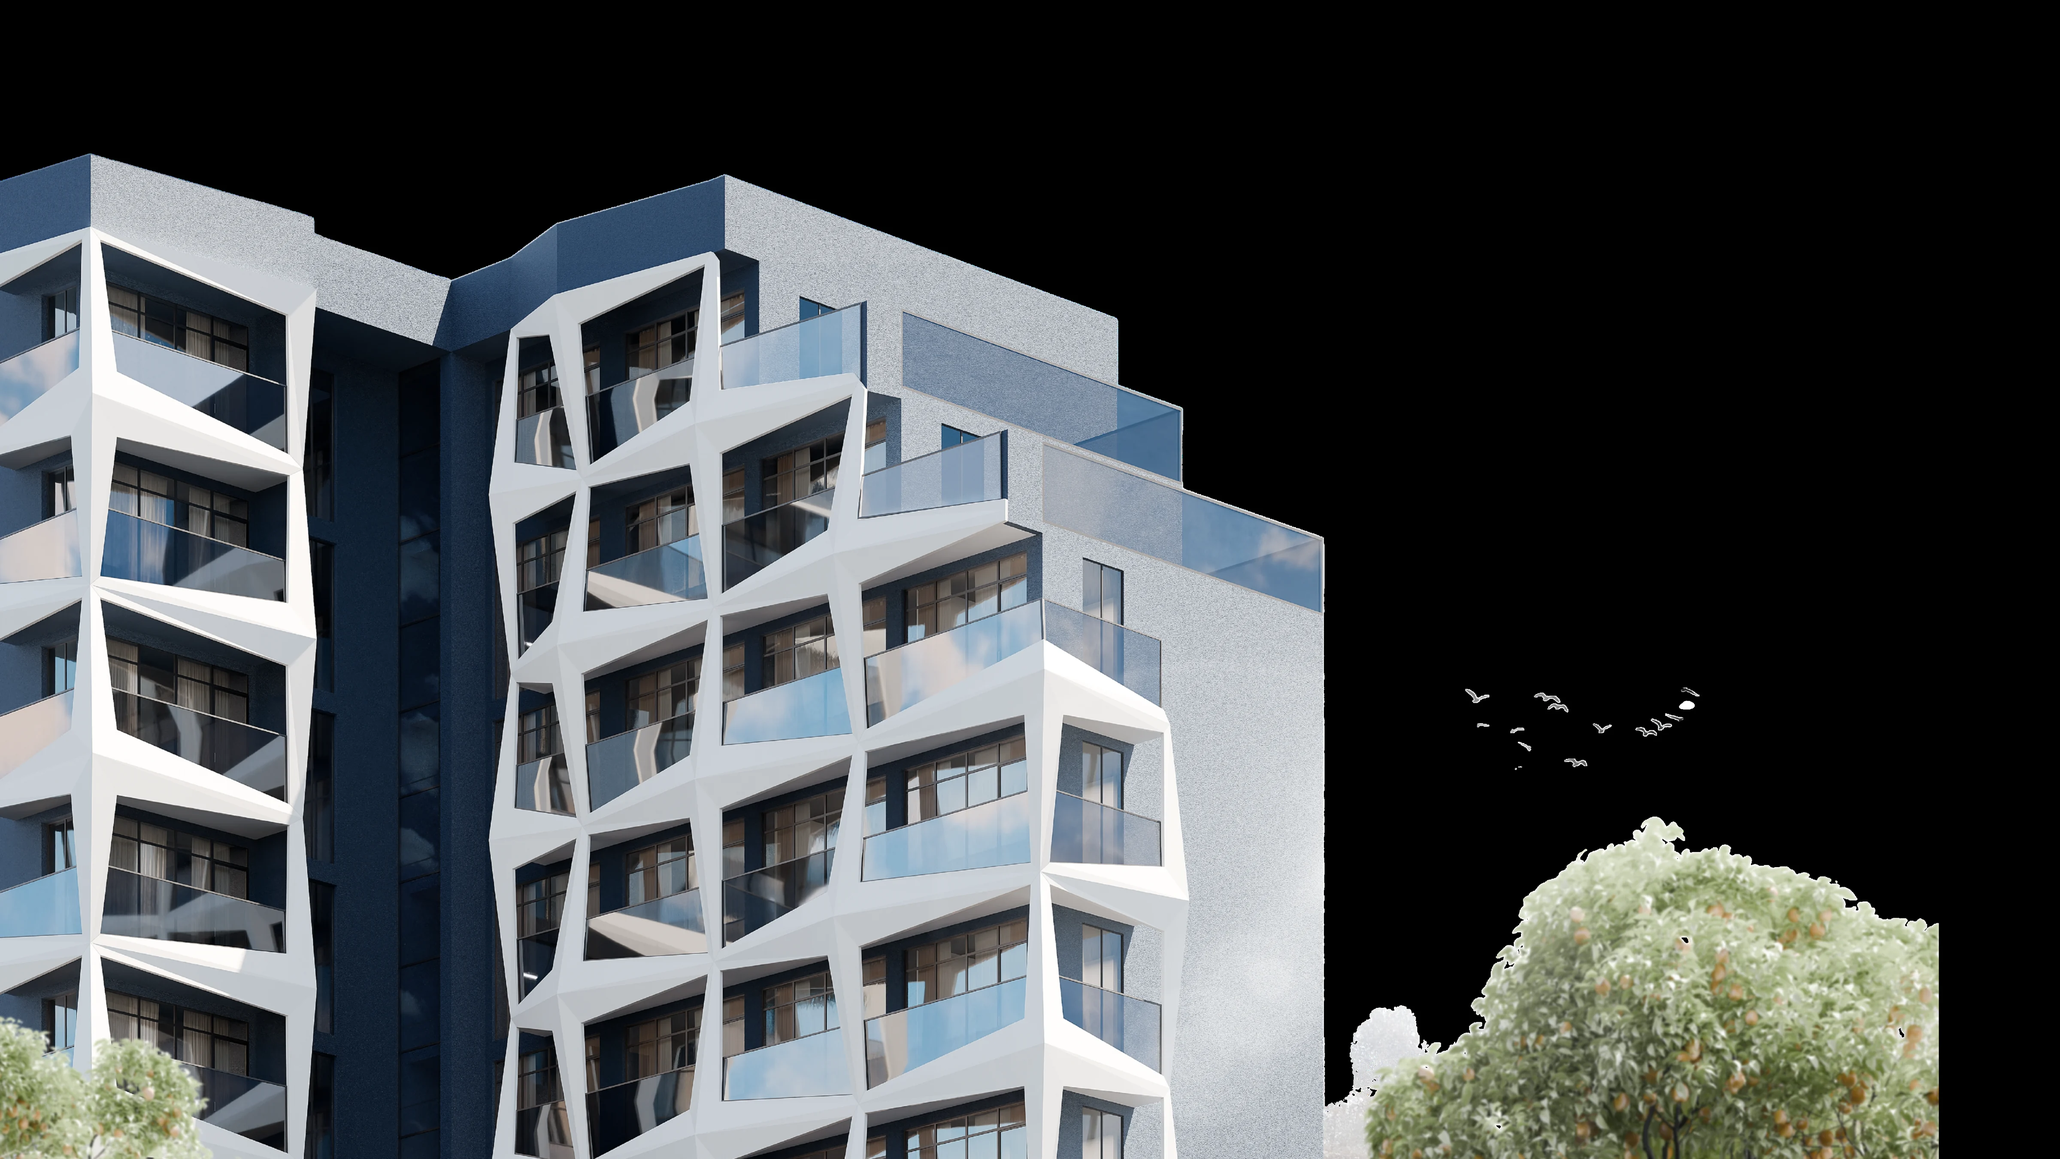
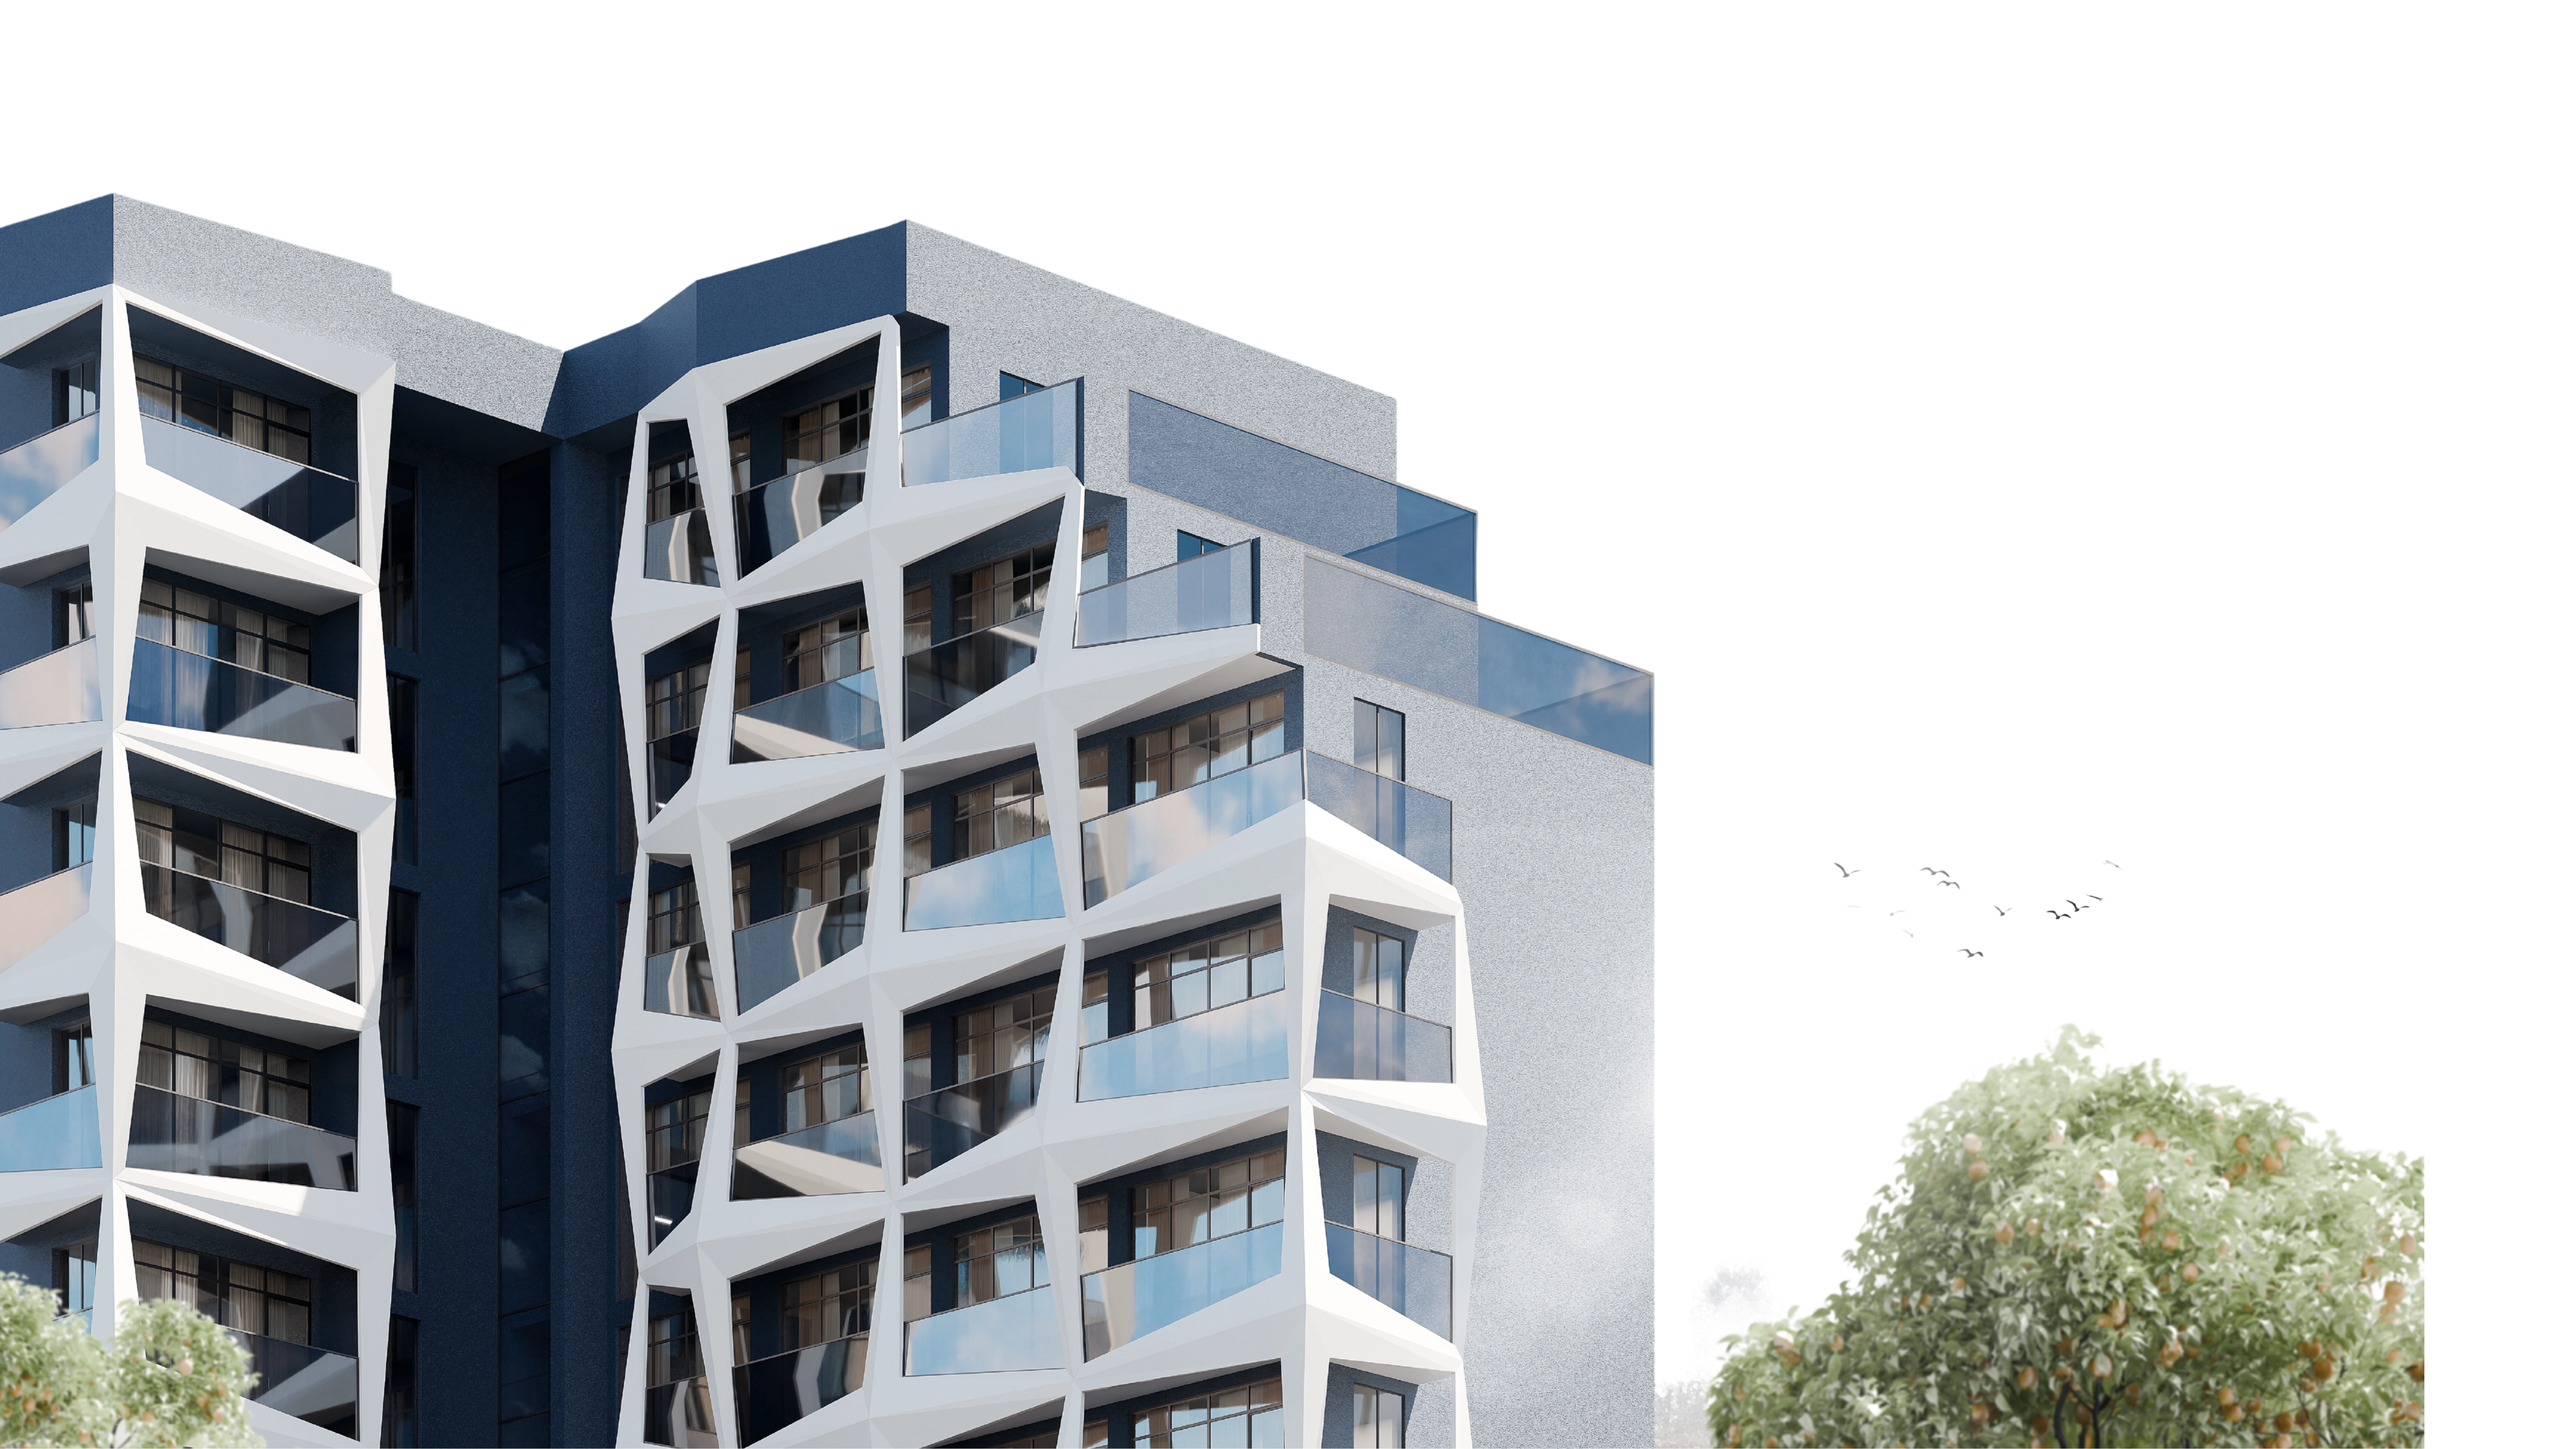
Исправить фон и качество рендера здания

diff --git a/index.html b/index.html
@@ -97,7 +97,7 @@
       <div class="home-feature" data-chapter="Место силы" data-i18n-attr="data-chapter:Место силы">
         <div class="home-feature__sticky">
           <div class="home-feature__media">
-            <img class="home-feature__img" src="/assets/img/ready-home.webp?v=2" alt="Клубный дом Aurum Fort" data-i18n-attr="alt:Клубный дом Aurum Fort" />
+            <img class="home-feature__img" src="/assets/img/ready-home.webp?v=4" alt="Клубный дом Aurum Fort" data-i18n-attr="alt:Клубный дом Aurum Fort" />
           </div>
           <span class="home-feature__title" data-i18n="Место силы">Место силы</span>
         </div>

diff --git a/scripts/upscale_site_images.py b/scripts/upscale_site_images.py
@@ -27,6 +27,7 @@ class Asset:
     target_width: int
     sharpen_percent: int = 15
     source_from_assets: bool = False
+    quality: int = WEBP_QUALITY
 
 
 ASSETS = (
@@ -38,7 +39,9 @@ ASSETS = (
     Asset(
         "AURUM FORT Investment Presentation ENG.pptx, \u043a\u043e\u043f\u0438\u044f (2).png",
         ("ready-home.webp",),
-        4800,
+        target_width=6000,
+        sharpen_percent=0,
+        quality=100,
     ),
     Asset("6_upscaled.PNG", ("6_upscaled.webp",), 3200),
     Asset("18_1_upscaled.PNG", ("18_1_upscaled.webp",), 3200),
@@ -53,7 +56,10 @@ def rebuild(asset: Asset) -> None:
     source_root = OUTPUT_ROOT if asset.source_from_assets else SOURCE_ROOT
     source_path = source_root / asset.source
     with Image.open(source_path) as source:
-        image = source.convert("RGB")
+        has_alpha = "A" in source.getbands()
+        rgba = source.convert("RGBA") if has_alpha else None
+        image = rgba.convert("RGB") if rgba else source.convert("RGB")
+        alpha = rgba.getchannel("A") if rgba else None
         icc_profile = source.info.get("icc_profile")
         exif = source.info.get("exif", b"")
 
@@ -64,9 +70,25 @@ def rebuild(asset: Asset) -> None:
         return
 
     target_height = round(image.height * asset.target_width / image.width)
-    resized = image.resize(
-        (asset.target_width, target_height),
-        resample=Image.Resampling.LANCZOS,
+    resized = (
+        image.resize(
+            (asset.target_width, target_height),
+            resample=Image.Resampling.LANCZOS,
+        )
+        if image.width != asset.target_width
+        else image.copy()
+    )
+    resized_alpha = (
+        (
+            alpha.resize(
+                (asset.target_width, target_height),
+                resample=Image.Resampling.LANCZOS,
+            )
+            if alpha.width != asset.target_width
+            else alpha.copy()
+        )
+        if alpha
+        else None
     )
 
     # Restore edge contrast softened by interpolation without inventing
@@ -79,13 +101,15 @@ def rebuild(asset: Asset) -> None:
                 threshold=3,
             )
         )
+    if resized_alpha:
+        resized.putalpha(resized_alpha)
 
     for output_name in asset.outputs:
         output_path = OUTPUT_ROOT / output_name
         resized.save(
             output_path,
             format="WEBP",
-            quality=WEBP_QUALITY,
+            quality=asset.quality,
             method=6,
             icc_profile=icc_profile,
             exif=exif,
